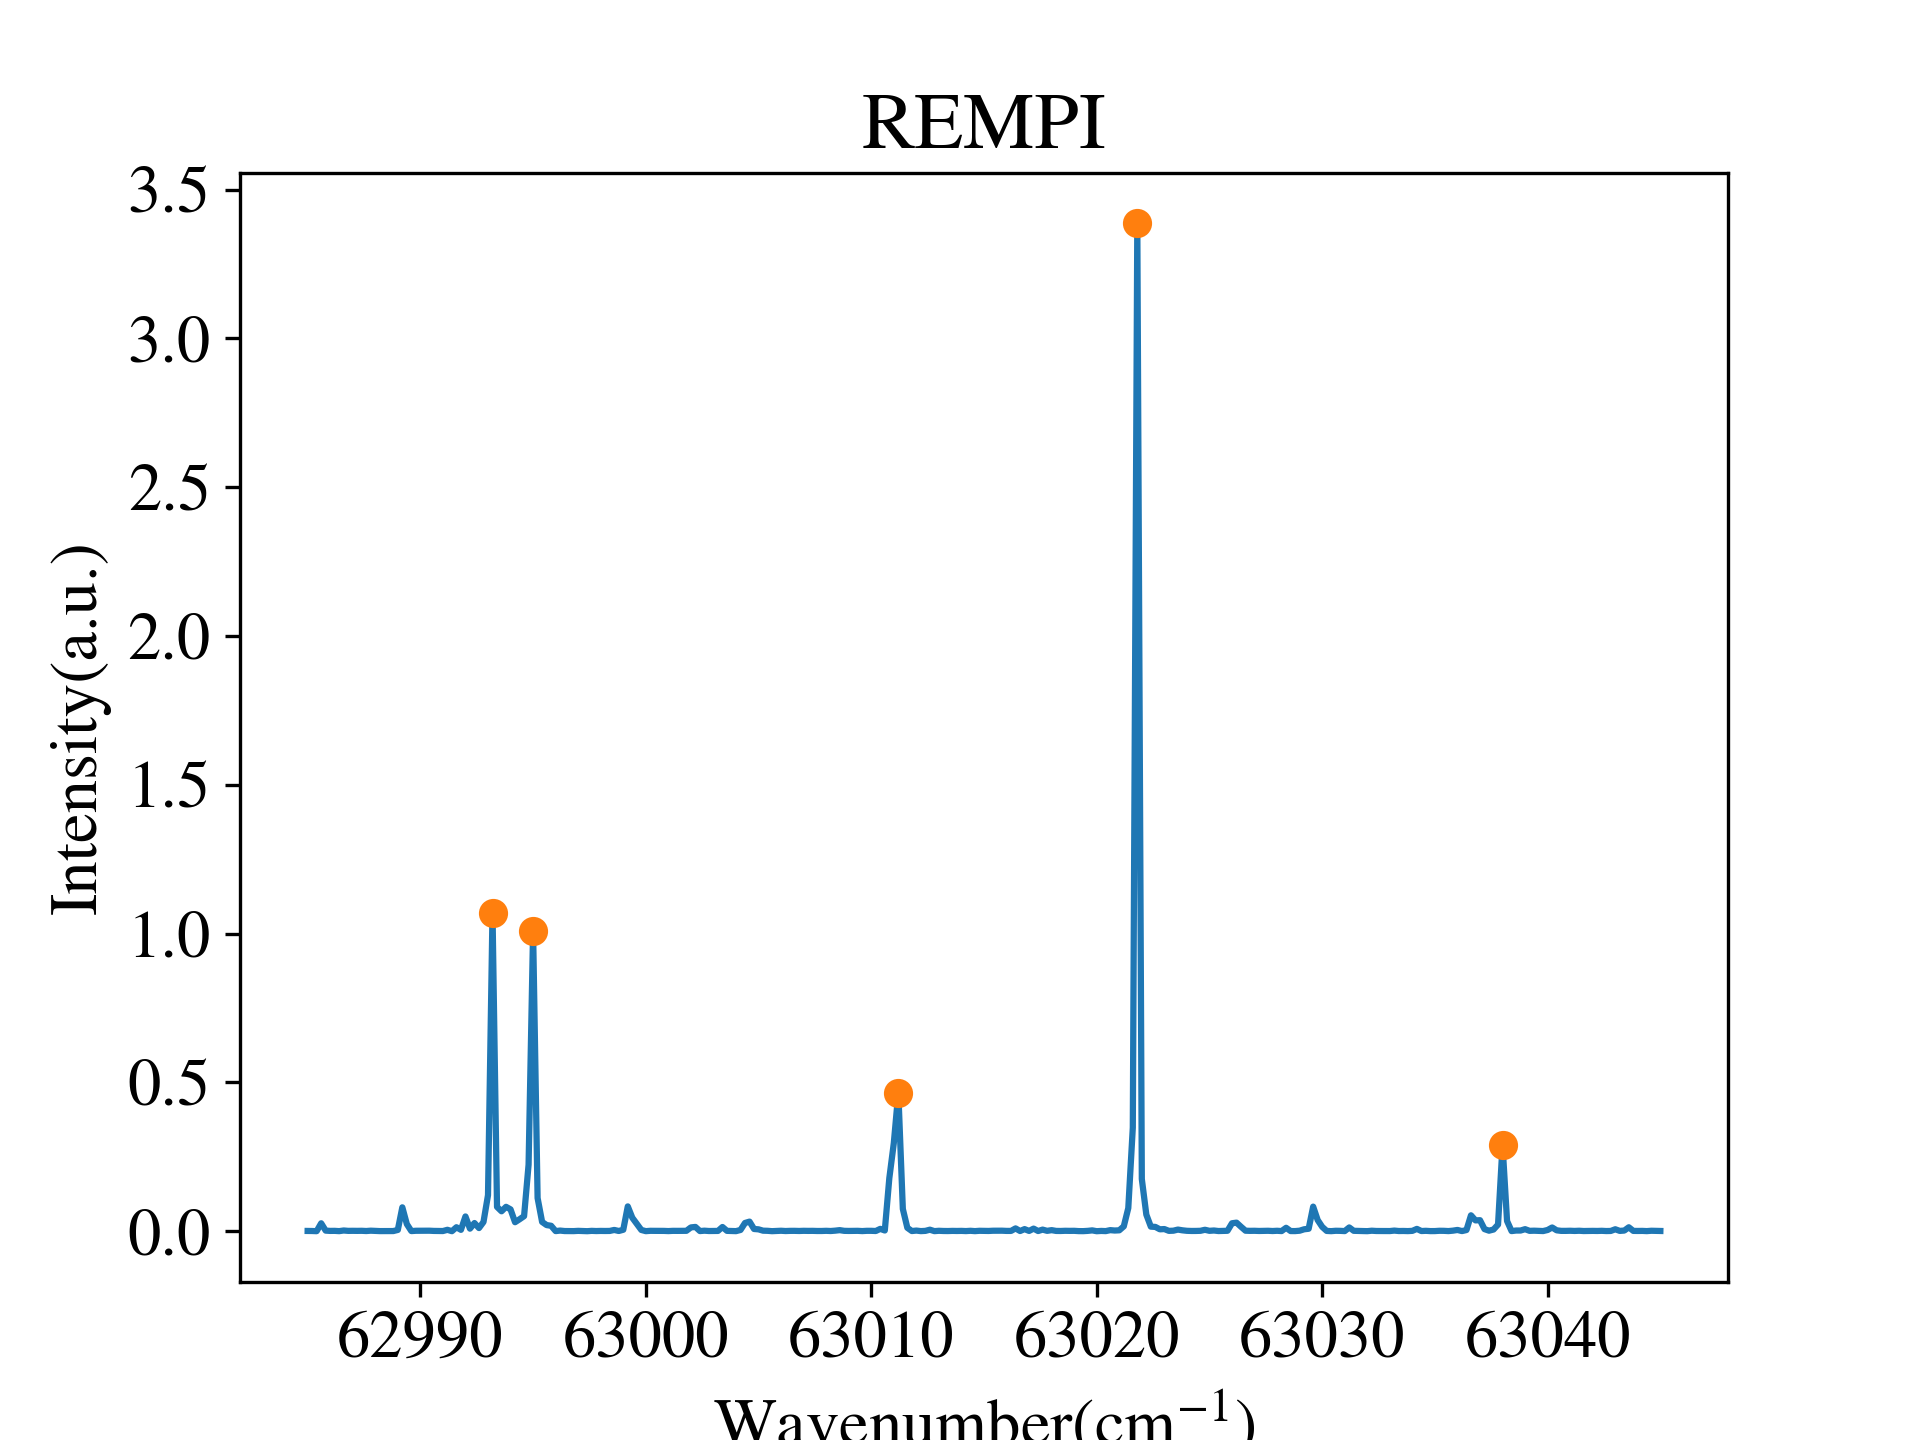
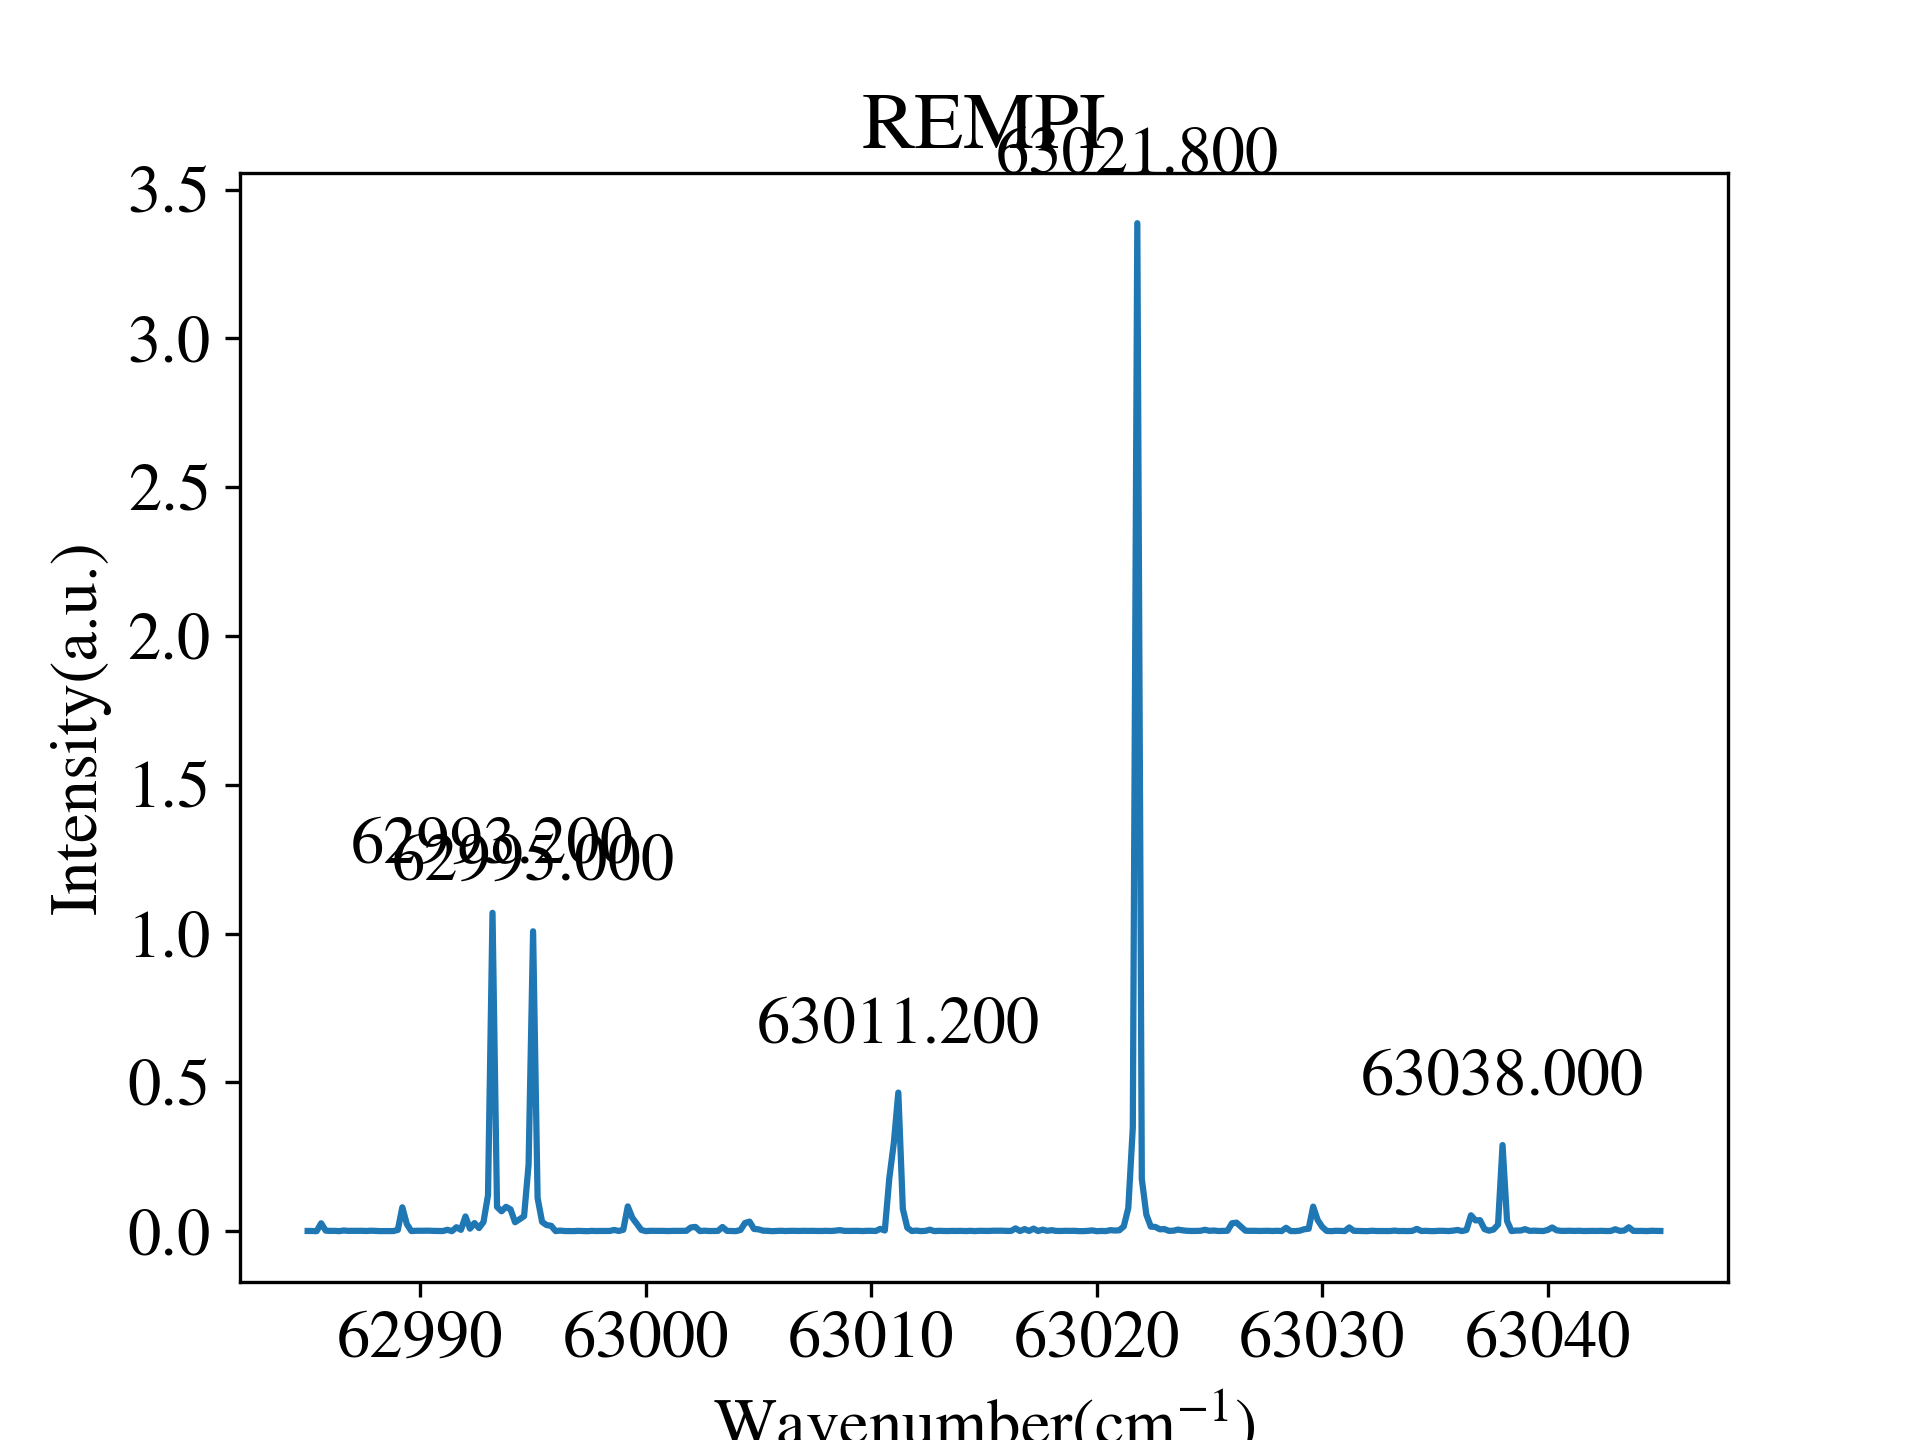
add more plotting functionality, ploting peak position on top of peak, may not be optimal

diff --git a/numpy/figure_plot.py b/numpy/figure_plot.py
@@ -15,7 +15,7 @@ def plot2D(data,data2 = None, plottype = 'default', xlim = None, ylim = None):
     if ylim is not None:
         plt.ylim(ylim)
     if plottype.lower() == 'flighttime':
-        plt.plot(data[:,0]*1000,data[:,1])
+        plt.plot(data[:,0],data[:,1])
         plt.xlabel('Flight time ($\mu$s)')
         plt.ylabel('Ion counts(a.u.)')
         plt.title('Flight time spectrum')   
@@ -36,4 +36,5 @@ def plot2D(data,data2 = None, plottype = 'default', xlim = None, ylim = None):
             sys.exit('incorrect plottype')
 
     if data2 is not None:
-        plt.plot(data2[:,0],data2[:,1], 'o')
+        for i in range(len(data2[:,0])):
+            plt.annotate(f'{data2[i,0]:.3f}', xy = (data2[i,0], data2[i,1]), xytext = [data2[i,0], data2[i,1]+data2[:,1].max()*0.05], ha = 'center')

diff --git a/numpy/spectrum.py b/numpy/spectrum.py
@@ -15,11 +15,12 @@ def main():
 
 
     massdata = new_file(rawdata2)
+    massdata[:,0] = massdata[:,0]*1000
+    masspeak = peak_find(massdata, 35, 20, 0.3)
     newmass = mass_convert(massdata,[16,17,18])
     plot2D(newmass,plottype = 'ms', xlim = [14, 20])
     plt.savefig('massplot.png',dpi = 300)
-
-    plot2D(massdata, plottype = 'flighttime')
+    plot2D(massdata, masspeak, plottype = 'flighttime', xlim = [1.0 , 1.4], ylim = [0, masspeak[:,1].max()*1.2])
     plt.savefig('flighttime.png', dpi = 300)
 if __name__ == '__main__':
     main()
